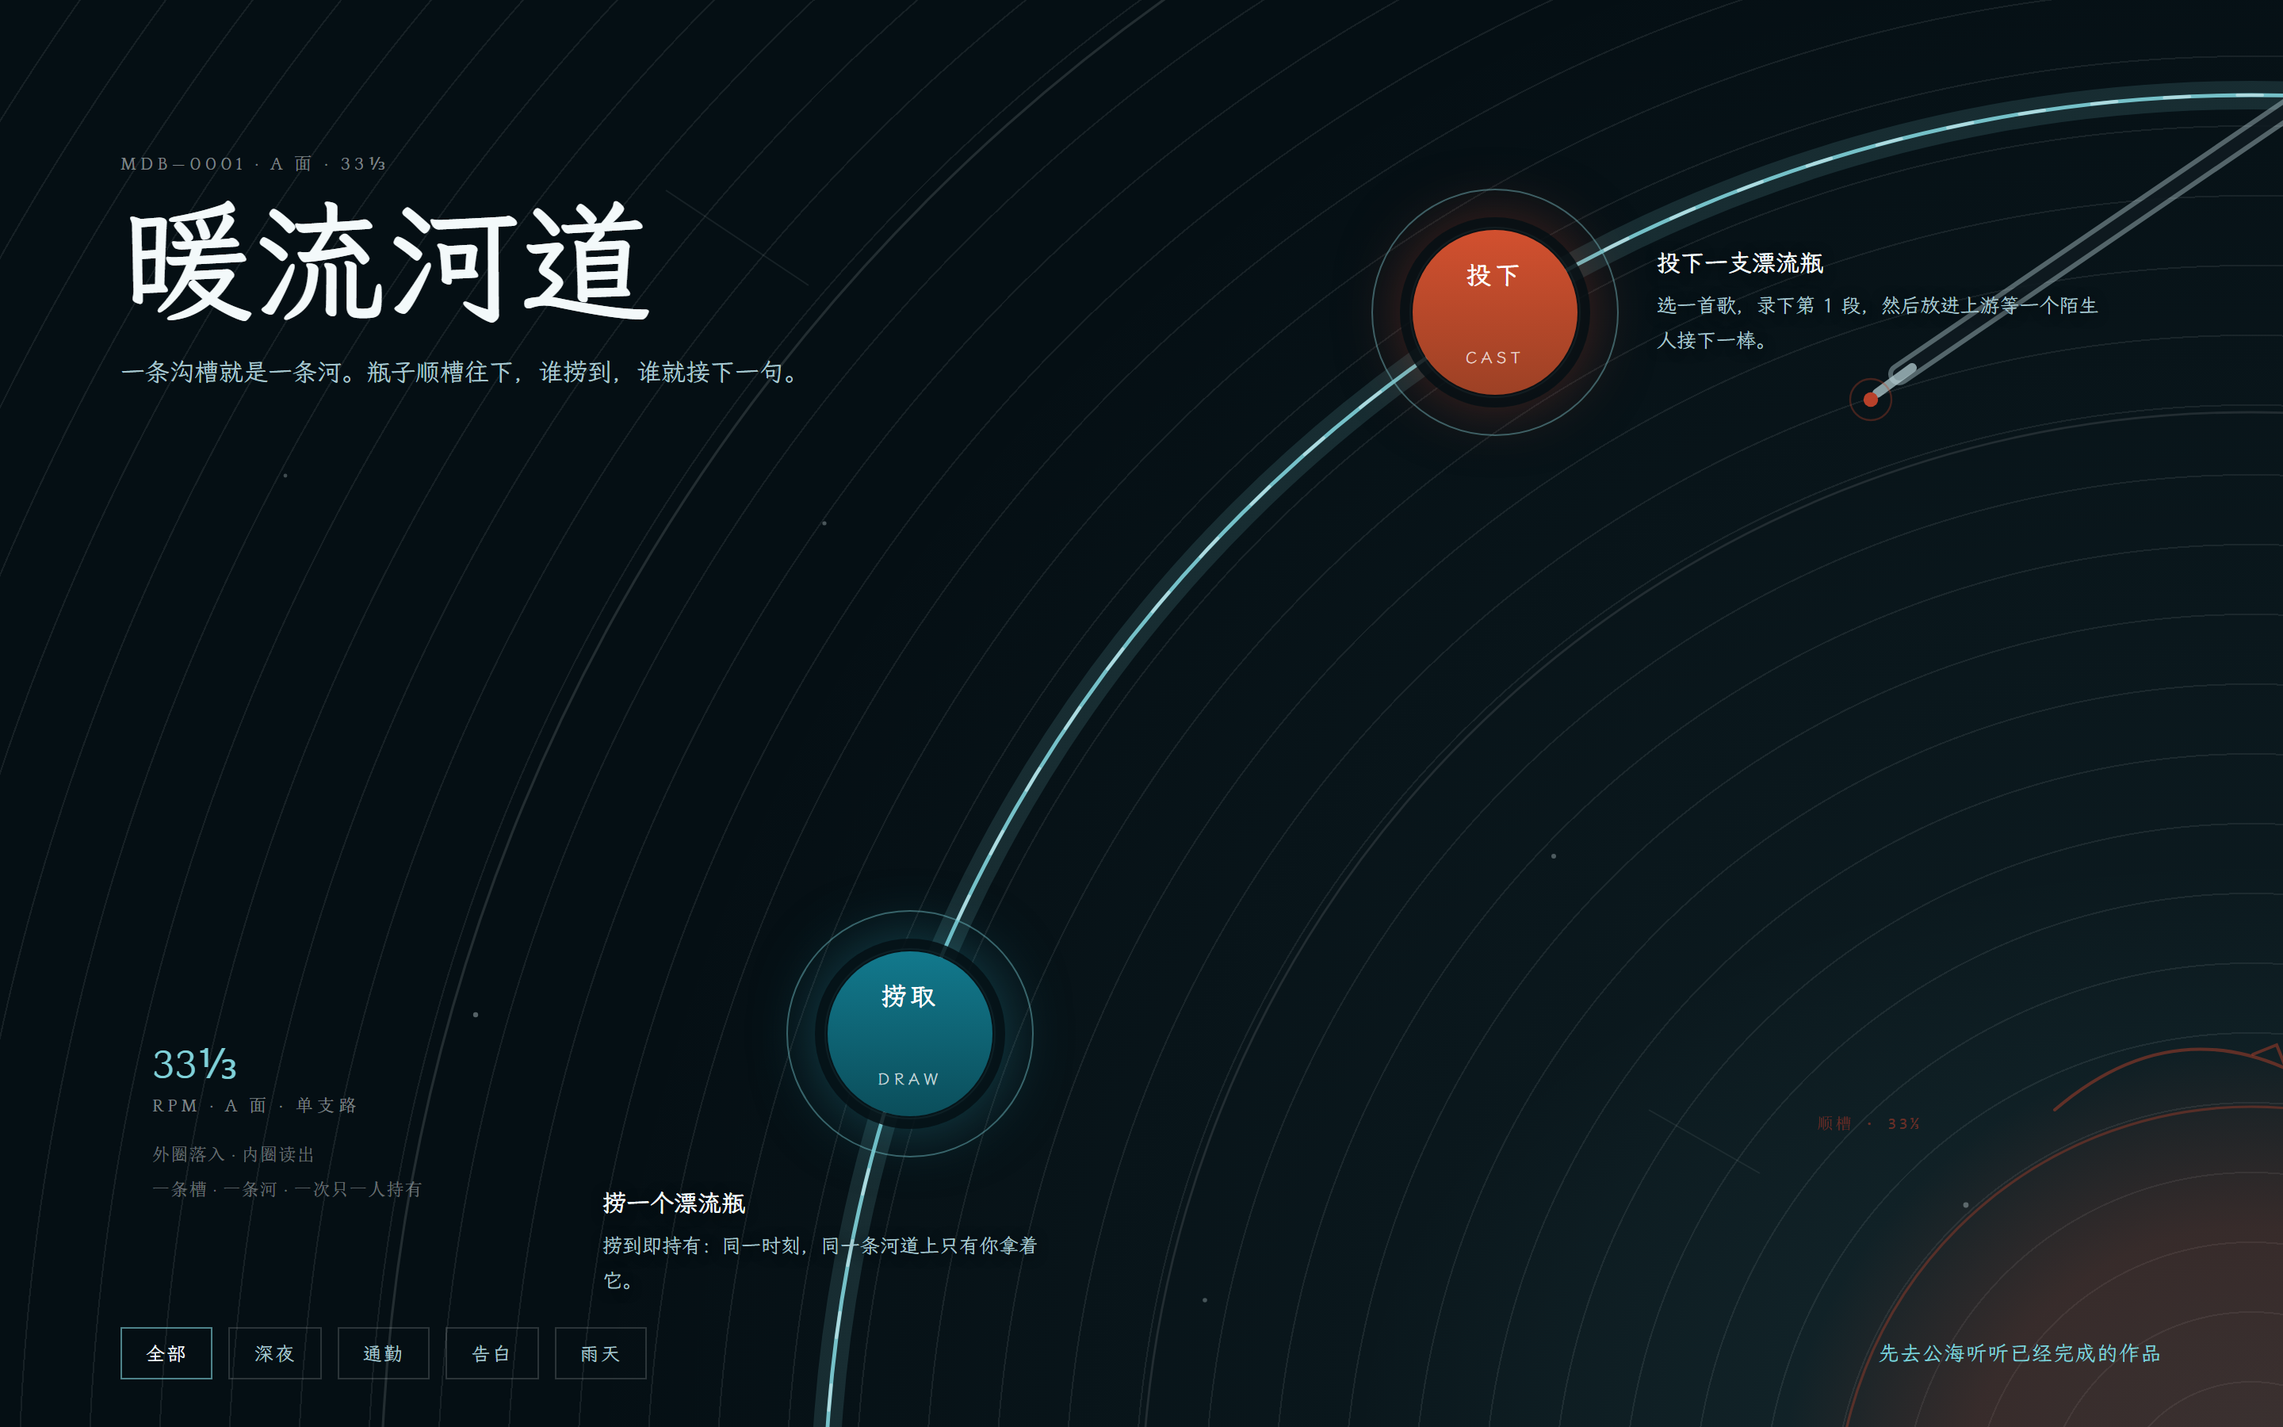
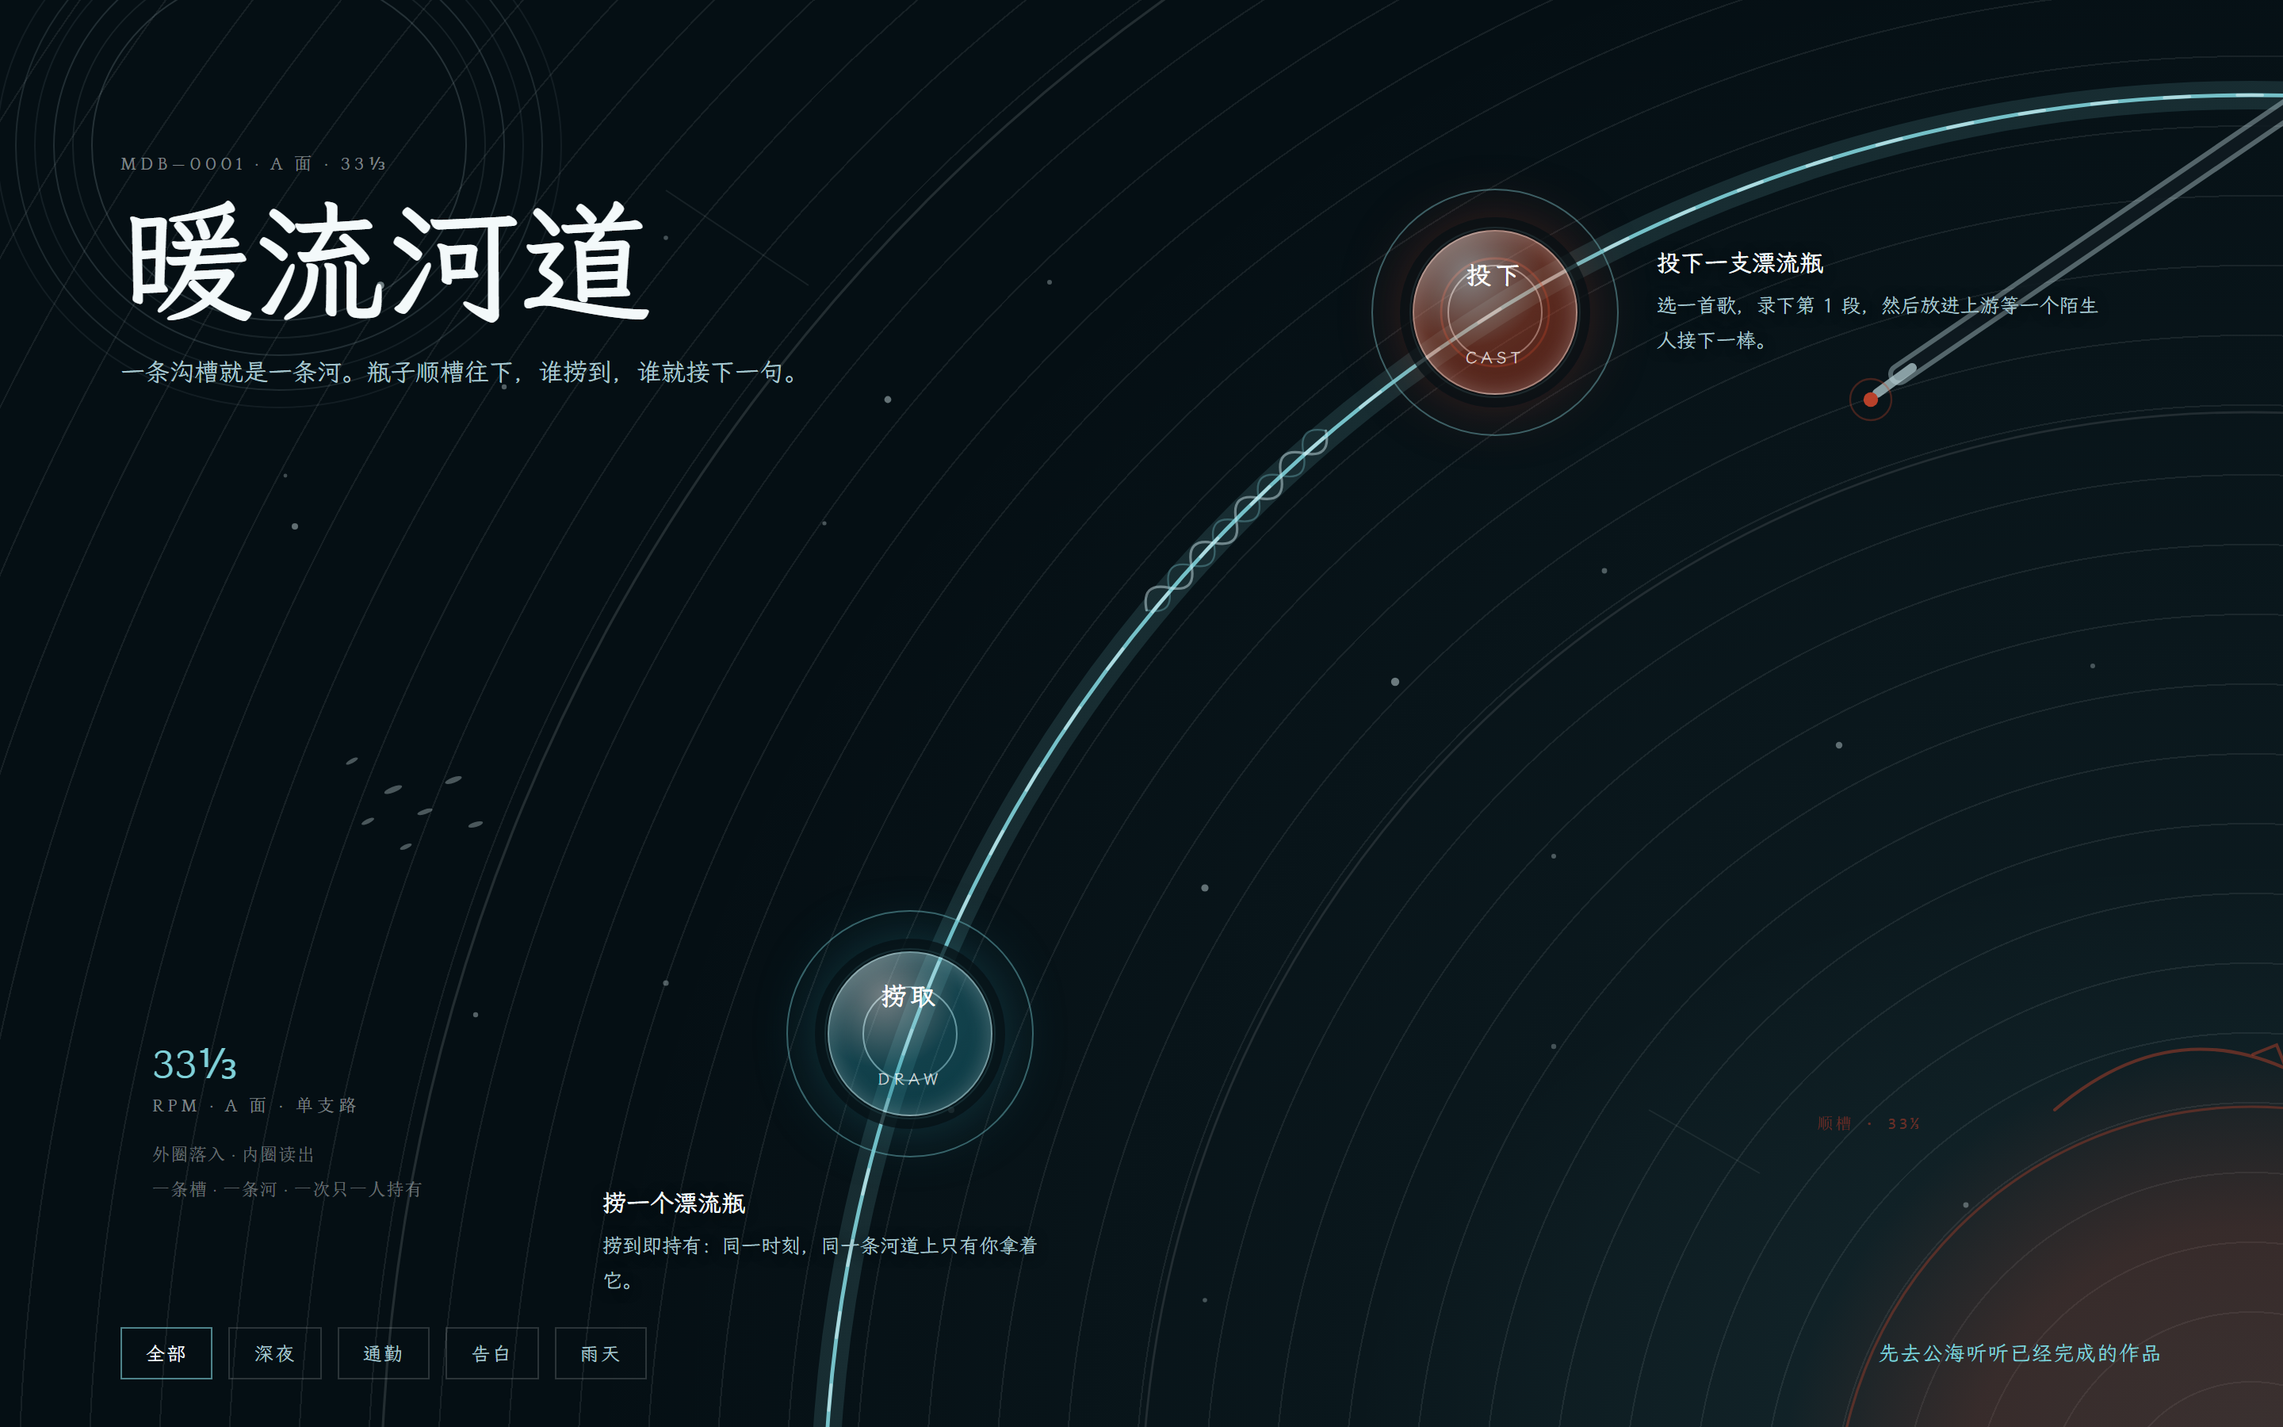
docs(design-explore): 把 g3 的四种细节按主题翻译移植到 F4 与 F1（可回滚）+ F1 按钮调大
翻译表（不是照搬）：水泡→F4 尘屑 / F1 仍是水泡；音符→F4 沟槽的波形调制 / F1 内联 SVG 八分音符；左上波纹→F4 摩尔纹 / F1 水面涟漪；远处鱼群→F4 远处尘屑群（唱片上没有鱼）/ F1 河里远处的鱼群；透明质感按钮→两边共用半透明径向渐变 + 内高光 + 亮边（刻意不用 backdrop-filter，沿用 C-09『不做毛玻璃』的裁决）。

可回滚写成结构开关：F4 新增全在 g#detail2、F1 新增全在 g#detail，删掉对应 g 即回到上一版。

F1 按钮按用户要求继续调大：捞取 196→240、投下 148→184，仍保持错落（不同尺寸、不在同一水平线）。

顺手还掉一条技术债：移植的音符用内联 SVG、不用 U+266A（那个码点撞仓库禁 emoji 守卫）；g3 自身的 ♪ 仍待改，已记在 §103.2/§103.5。

Changed region(s): [[0.5938, 0.1556, 0.6875, 0.28], [0.3438, 0.6533, 0.4375, 0.7778], [0.5312, 0.3422, 0.5625, 0.3733]]

diff --git a/docs/ui-review/design-explore/f1-above.html b/docs/ui-review/design-explore/f1-above.html
@@ -50,8 +50,10 @@
       .port .core { position:relative; width:104px; height:104px; border-radius:50%; display:grid; place-items:center; gap:2px;
         font-family:inherit; font-size:16px; font-weight:700; letter-spacing:.14em; color:#fff; }
       .port .core span { font-size:10px; letter-spacing:.28em; opacity:.75; font-weight:400; }
-      .draw .core { background:linear-gradient(180deg,#12798d,#0b4e5b); box-shadow:0 0 0 8px rgba(6,28,37,.8), 0 12px 34px rgba(0,0,0,.45); }
-      .cast .core { background:linear-gradient(180deg,#d2502f,#9d4125); box-shadow:0 0 0 8px rgba(6,28,37,.8), 0 12px 34px rgba(0,0,0,.45); }
+      .draw .core { background:radial-gradient(circle at 34% 26%, rgba(240,252,254,.44), rgba(42,157,177,.32) 46%, rgba(11,78,91,.62) 100%);
+        border:1px solid rgba(216,243,246,.5); box-shadow:0 0 0 8px rgba(6,28,37,.72), inset 0 1px 14px rgba(255,255,255,.26), 0 12px 34px rgba(0,0,0,.4); }
+      .cast .core { background:radial-gradient(circle at 34% 26%, rgba(255,238,232,.5), rgba(210,80,47,.4) 46%, rgba(120,36,20,.62) 100%);
+        border:1px solid rgba(255,228,218,.5); box-shadow:0 0 0 8px rgba(6,28,37,.72), inset 0 1px 14px rgba(255,255,255,.28), 0 12px 34px rgba(0,0,0,.4); }
       .port .cap { position:absolute; width:290px; font-size:12.5px; line-height:1.75; color:var(--muted);
         text-shadow:0 1px 8px rgba(3,20,26,.95); }
       .port .cap b { display:block; color:var(--paper); font-size:15px; margin-bottom:3px; }
@@ -156,7 +158,60 @@
 
           <!-- 默认态：河道里没有瓶子，只有水在流（用户第 ④ 条） -->
         </g>
-      </svg>
+      
+      <!-- ── 细节层（**删掉这个 g 就回到上一版**）——
+           从 g3 借来的四种"感觉"，按河道主题落地：上浮水泡 / 打着旋的音符 / 水面涟漪 / 远处鱼群 -->
+      <defs>
+        <!-- 八分音符：**内联 SVG**，刻意不用 ♪ 字符（U+266A 落在仓库禁 emoji 的码点区间里） -->
+        <g id="note8">
+          <ellipse cx="0" cy="0" rx="7.5" ry="5.6" transform="rotate(-20)" fill="#eafcff" />
+          <rect x="6" y="-30" width="1.6" height="30" fill="#eafcff" />
+          <path d="M7.6 -30 C 16 -26, 20 -20, 19 -11 C 17 -19, 13 -22, 7.6 -23 Z" fill="#eafcff" />
+        </g>
+        <g id="fish1">
+          <path d="M0 0 C 8 -6, 20 -6, 28 0 C 20 6, 8 6, 0 0 Z" />
+          <path d="M0 0 L -9 -7 L -9 7 Z" />
+        </g>
+      </defs>
+      <g id="detail">
+        <!-- 上浮的水泡：越靠下越大（贴近镜头） -->
+        <g fill="none" stroke="#eafcff">
+          <circle cx="120" cy="640" r="6" stroke-width="1" opacity=".3" /><circle cx="188" cy="700" r="9" stroke-width="1.2" opacity=".26" />
+          <circle cx="268" cy="596" r="4.5" stroke-width="1" opacity=".3" /><circle cx="360" cy="742" r="13" stroke-width="1.4" opacity=".2" />
+          <circle cx="470" cy="660" r="7" stroke-width="1.1" opacity=".28" /><circle cx="590" cy="770" r="17" stroke-width="1.6" opacity=".16" />
+          <circle cx="700" cy="600" r="5.5" stroke-width="1" opacity=".3" /><circle cx="820" cy="726" r="11" stroke-width="1.3" opacity=".2" />
+          <circle cx="940" cy="650" r="8" stroke-width="1.1" opacity=".26" /><circle cx="1080" cy="790" r="21" stroke-width="1.8" opacity=".13" />
+          <circle cx="1240" cy="620" r="6.5" stroke-width="1" opacity=".28" /><circle cx="1380" cy="740" r="15" stroke-width="1.5" opacity=".17" />
+        </g>
+        <g fill="#eafcff">
+          <circle cx="186" cy="697" r="2" opacity=".3" /><circle cx="700" cy="598" r="1.6" opacity=".3" />
+          <circle cx="940" cy="647" r="2.2" opacity=".26" /><circle cx="1240" cy="618" r="1.8" opacity=".28" />
+        </g>
+        <!-- 打着旋的音符（内联 SVG，不是字符） -->
+        <use href="#note8" transform="translate(300 300) scale(1.1) rotate(-14)" opacity=".34" />
+        <use href="#note8" transform="translate(520 470) scale(.8) rotate(11)" opacity=".26" />
+        <use href="#note8" transform="translate(760 620) scale(1.25) rotate(-6)" opacity=".3" />
+        <use href="#note8" transform="translate(1080 470) scale(.95) rotate(17)" opacity=".24" />
+        <use href="#note8" transform="translate(1300 690) scale(1.05) rotate(-9)" opacity=".2" />
+        <!-- 远处的水面涟漪（g3 左上那圈波纹 → 河道上的对应物） -->
+        <g fill="none" stroke="#cfe9ee">
+          <ellipse cx="150" cy="150" rx="52" ry="17" stroke-width="1" opacity=".17" />
+          <ellipse cx="150" cy="150" rx="78" ry="26" stroke-width="1" opacity=".11" />
+          <ellipse cx="150" cy="150" rx="106" ry="35" stroke-width="1" opacity=".14" />
+          <ellipse cx="150" cy="150" rx="136" ry="45" stroke-width="1" opacity=".08" />
+          <ellipse cx="228" cy="196" rx="42" ry="14" stroke-width="1" opacity=".12" />
+        </g>
+        <!-- 河里远处的鱼群：极淡，只给"隐约有一群"的观感 -->
+        <g fill="#02141a" opacity=".42">
+          <use href="#fish1" transform="translate(470 402) scale(.9) rotate(-26)" />
+          <use href="#fish1" transform="translate(528 428) scale(1.1) rotate(-22)" />
+          <use href="#fish1" transform="translate(432 436) scale(.75) rotate(-30)" />
+          <use href="#fish1" transform="translate(576 404) scale(.85) rotate(-24)" />
+          <use href="#fish1" transform="translate(494 460) scale(.65) rotate(-28)" />
+          <use href="#fish1" transform="translate(612 448) scale(1) rotate(-20)" opacity=".8" />
+        </g>
+      </g>
+</svg>
 
       <!-- 河道上不放任何段号/段位标记（用户第 ② 条） -->
     </div>
@@ -168,15 +223,15 @@
       <div class="meter"><i class="on"></i><i></i><i></i><i></i></div>
     </div>
 
-    <div class="port draw ov" style="left:98px; top:566px; width:196px; height:196px" role="button" aria-label="捞一个漂流瓶">
-      <i class="r1" style="inset:0"></i><i class="r2" style="inset:28px"></i><i class="r3" style="inset:56px"></i>
-      <span class="core" style="width:78px;height:78px;font-size:17px">捞取<span>DRAW</span></span>
-      <span class="cap" style="left:212px; top:44px; width:270px"><b>捞一个漂流瓶</b>捞取深水里传来的匿名哼唱，接续她的下一句。捞到即持有：同一时刻，同一条河道上只有你拿着它。</span>
+    <div class="port draw ov" style="left:76px; top:544px; width:240px; height:240px" role="button" aria-label="捞一个漂流瓶">
+      <i class="r1" style="inset:0"></i><i class="r2" style="inset:34px"></i><i class="r3" style="inset:68px"></i>
+      <span class="core" style="width:96px;height:96px;font-size:19px">捞取<span>DRAW</span></span>
+      <span class="cap" style="left:258px; top:66px; width:270px"><b>捞一个漂流瓶</b>捞取深水里传来的匿名哼唱，接续她的下一句。捞到即持有：同一时刻，同一条河道上只有你拿着它。</span>
     </div>
-    <div class="port cast ov" style="left:246px; top:356px; width:148px; height:148px" role="button" aria-label="投下一支漂流瓶">
-      <i class="r1" style="inset:0"></i><i class="r2" style="inset:20px"></i><i class="r3" style="inset:40px"></i>
-      <span class="core" style="width:62px;height:62px;font-size:15px">投下<span>CAST</span></span>
-      <span class="cap" style="left:164px; top:24px; width:268px"><b>投下一支漂流瓶</b>选一首歌，录下第 1 段（时长以该段为准），然后放进上游等一个陌生人接下一棒。</span>
+    <div class="port cast ov" style="left:212px; top:322px; width:184px; height:184px" role="button" aria-label="投下一支漂流瓶">
+      <i class="r1" style="inset:0"></i><i class="r2" style="inset:26px"></i><i class="r3" style="inset:52px"></i>
+      <span class="core" style="width:76px;height:76px;font-size:17px">投下<span>CAST</span></span>
+      <span class="cap" style="left:200px; top:42px; width:268px"><b>投下一支漂流瓶</b>选一首歌，录下第 1 段（时长以该段为准），然后放进上游等一个陌生人接下一棒。</span>
     </div>
 
     <footer>

diff --git a/docs/ui-review/design-explore/f4-groove.html b/docs/ui-review/design-explore/f4-groove.html
@@ -38,8 +38,10 @@
       .port .core { position:relative; width:104px; height:104px; border-radius:50%; display:grid; place-items:center; gap:2px;
         font-family:inherit; font-size:16px; font-weight:700; letter-spacing:.14em; color:#fff; }
       .port .core span { font-size:10px; letter-spacing:.28em; opacity:.75; font-weight:400; }
-      .draw .core { background:linear-gradient(180deg,#12798d,#0b4e5b); box-shadow:0 0 0 8px rgba(5,15,20,.85), 0 0 46px rgba(42,157,177,.55); }
-      .cast .core { background:linear-gradient(180deg,#d2502f,#9d4125); box-shadow:0 0 0 8px rgba(5,15,20,.85), 0 0 46px rgba(199,69,44,.5); }
+      .draw .core { background:radial-gradient(circle at 34% 26%, rgba(240,252,254,.46), rgba(42,157,177,.34) 46%, rgba(11,78,91,.62) 100%);
+        border:1px solid rgba(216,243,246,.5); box-shadow:0 0 0 8px rgba(5,15,20,.72), inset 0 1px 14px rgba(255,255,255,.26), 0 0 46px rgba(42,157,177,.42); }
+      .cast .core { background:radial-gradient(circle at 34% 26%, rgba(255,238,232,.5), rgba(210,80,47,.42) 46%, rgba(120,36,20,.62) 100%);
+        border:1px solid rgba(255,228,218,.5); box-shadow:0 0 0 8px rgba(5,15,20,.72), inset 0 1px 14px rgba(255,255,255,.28), 0 0 46px rgba(199,69,44,.4); }
       .port .cap { position:absolute; width:290px; font-size:12.5px; line-height:1.75; color:var(--muted);
         text-shadow:0 1px 8px rgba(2,10,14,.95); }
       .port .cap b { display:block; color:var(--paper); font-size:15px; margin-bottom:3px; }
@@ -109,7 +111,48 @@
         <circle cx="1180" cy="252" r="4.6" fill="#c7452c" />
         <circle cx="1180" cy="252" r="13" fill="none" stroke="rgba(199,69,44,.35)" stroke-width="1.2" />
       </g>
-    </svg>
+    
+      <!-- ── 细节层 2（**删掉这个 g 就回到上一版**）——
+           从 g3 借来的四种"感觉"，按唱片主题翻译：尘屑 / 摩尔纹 / 远处尘屑群 / 沟槽调制 -->
+      <g id="detail2">
+        <!-- 悬浮在光里的尘屑（g3 的"泡泡" → 唱片表面被灯照到的微尘） -->
+        <g fill="#eafcff">
+          <circle cx="240" cy="180" r="2.4" opacity=".48" /><circle cx="318" cy="244" r="1.6" opacity=".34" />
+          <circle cx="186" cy="332" r="2" opacity=".4" /><circle cx="420" cy="150" r="1.4" opacity=".28" />
+          <circle cx="560" cy="252" r="2.2" opacity=".42" /><circle cx="662" cy="178" r="1.5" opacity=".3" />
+          <circle cx="880" cy="430" r="2.6" opacity=".44" /><circle cx="1012" cy="360" r="1.7" opacity=".32" />
+          <circle cx="1160" cy="470" r="2.1" opacity=".38" /><circle cx="1320" cy="420" r="1.5" opacity=".28" />
+          <circle cx="760" cy="560" r="2.3" opacity=".4" /><circle cx="420" cy="620" r="1.8" opacity=".32" />
+          <circle cx="600" cy="700" r="2" opacity=".34" /><circle cx="980" cy="660" r="1.6" opacity=".26" />
+        </g>
+        <!-- 摩尔纹：沟槽最密处被灯照出的干涉纹（g3 的"左上波纹" → 唱片上的对应物） -->
+        <g fill="none" stroke="#cfe9ee">
+          <ellipse cx="176" cy="92" rx="118" ry="110" stroke-width="1" opacity=".16" />
+          <ellipse cx="176" cy="92" rx="130" ry="121" stroke-width="1" opacity=".09" />
+          <ellipse cx="176" cy="92" rx="142" ry="132" stroke-width="1" opacity=".14" />
+          <ellipse cx="176" cy="92" rx="154" ry="143" stroke-width="1" opacity=".08" />
+          <ellipse cx="176" cy="92" rx="166" ry="154" stroke-width="1" opacity=".12" />
+          <ellipse cx="176" cy="92" rx="178" ry="165" stroke-width="1" opacity=".07" />
+        </g>
+        <!-- 远处一撮极淡的尘屑群（g3 的"远处鱼群"→ 保留"隐约有一群"，但唱片上没有鱼） -->
+        <g fill="#eafcff" opacity=".3">
+          <ellipse cx="248" cy="498" rx="6" ry="1.8" transform="rotate(-22 248 498)" />
+          <ellipse cx="268" cy="512" rx="5" ry="1.5" transform="rotate(-18 268 512)" />
+          <ellipse cx="232" cy="518" rx="4.4" ry="1.4" transform="rotate(-26 232 518)" />
+          <ellipse cx="286" cy="492" rx="5.6" ry="1.7" transform="rotate(-20 286 492)" />
+          <ellipse cx="256" cy="534" rx="4" ry="1.3" transform="rotate(-24 256 534)" />
+          <ellipse cx="300" cy="520" rx="4.8" ry="1.5" transform="rotate(-16 300 520)" />
+          <ellipse cx="222" cy="480" rx="4.2" ry="1.3" transform="rotate(-28 222 480)" />
+        </g>
+        <!-- 沟槽的调制：一段槽壁露出波形（g3 的"音符" → 唱片上的对应物：沟槽本身就是声音） -->
+        <g transform="translate(784 324) rotate(-45)">
+          <path d="M-86 0 q 10 -15 20 0 t 20 0 t 20 0 t 20 0 t 20 0 t 20 0 t 20 0 t 20 0"
+            fill="none" stroke="rgba(216,243,246,.46)" stroke-width="1.6" stroke-linecap="round" />
+          <path d="M-86 0 q 10 15 20 0 t 20 0 t 20 0 t 20 0 t 20 0 t 20 0 t 20 0 t 20 0"
+            fill="none" stroke="rgba(127,209,217,.32)" stroke-width="1.2" stroke-linecap="round" />
+        </g>
+      </g>
+</svg>
 
     <!-- 覆盖层 -->
     <div class="ov" style="left:76px; top:96px; width:520px">
